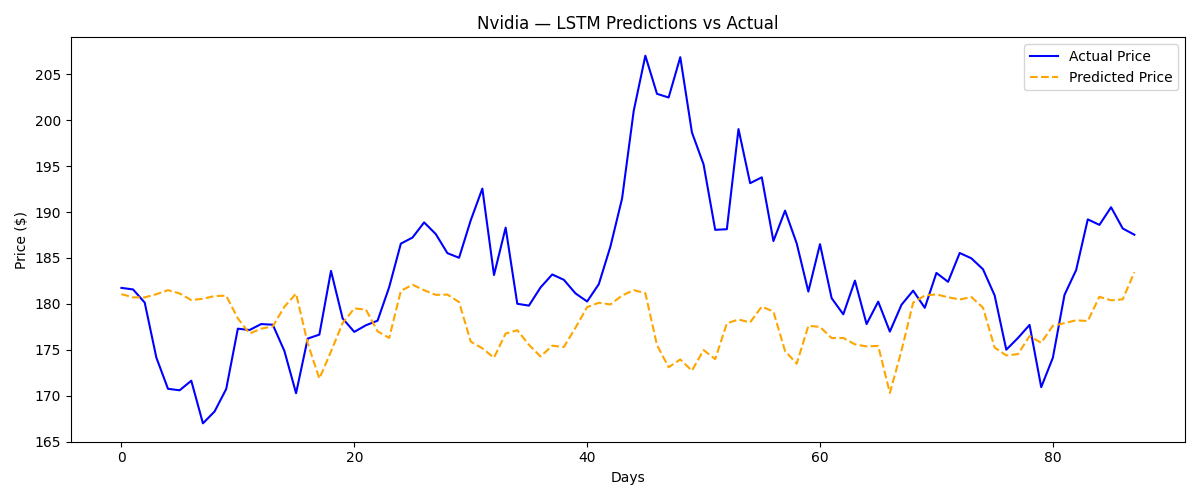
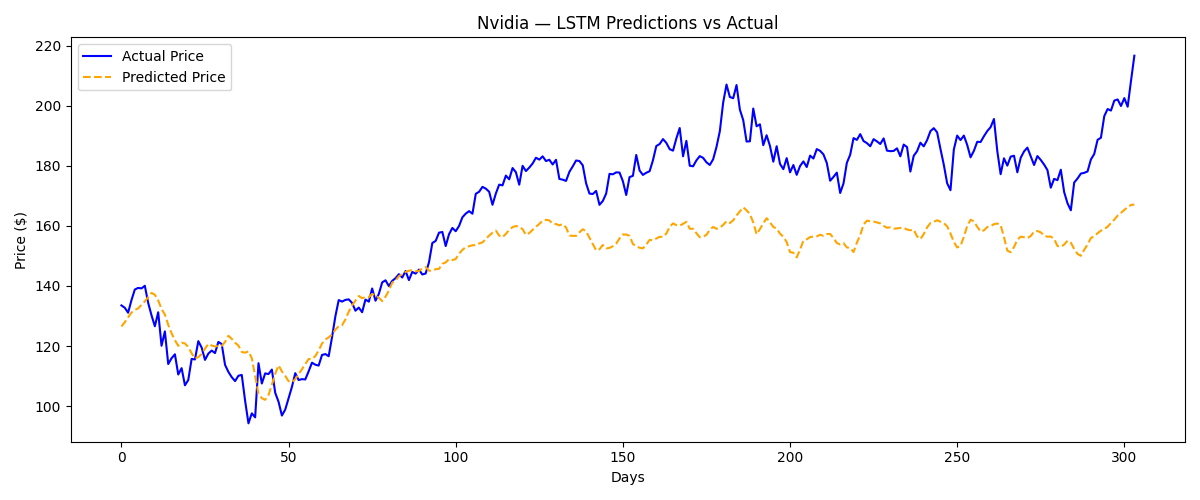
tinkering with settings

diff --git a/setup.py b/setup.py
@@ -34,8 +34,8 @@ tesla = yf.download("TSLA", start="2020-01-01", end="2026-4-28")
 intel = yf.download("INTC", start="2020-01-01", end="2026-4-28")
 
 stocks = {
-    "Apple":   ("AAPL",  apple),
-    # "Nvidia":  ("NVDA",  nvidia),
+    # "Apple":   ("AAPL",  apple),
+    "Nvidia":  ("NVDA",  nvidia),
     # "Tesla":  ("TSLA",  tesla),
     # "S&P 500": ("^GSPC", sp500),
     # "AMD":     ("AMD",   amd),
@@ -45,9 +45,9 @@ stocks = {
 
 os.makedirs("saved_models", exist_ok=True)
 
-SEQUENCE_LENGTH = 10
-EPOCHS = 500
-BATCH_SIZE = 32
+SEQUENCE_LENGTH = 20
+EPOCHS = 1200
+BATCH_SIZE = 1100
 features = ['Open', 'High', 'Low', 'Close', 'Volume', 'MA_10', 'MA_50']
 
 for name, (ticker, data) in stocks.items():